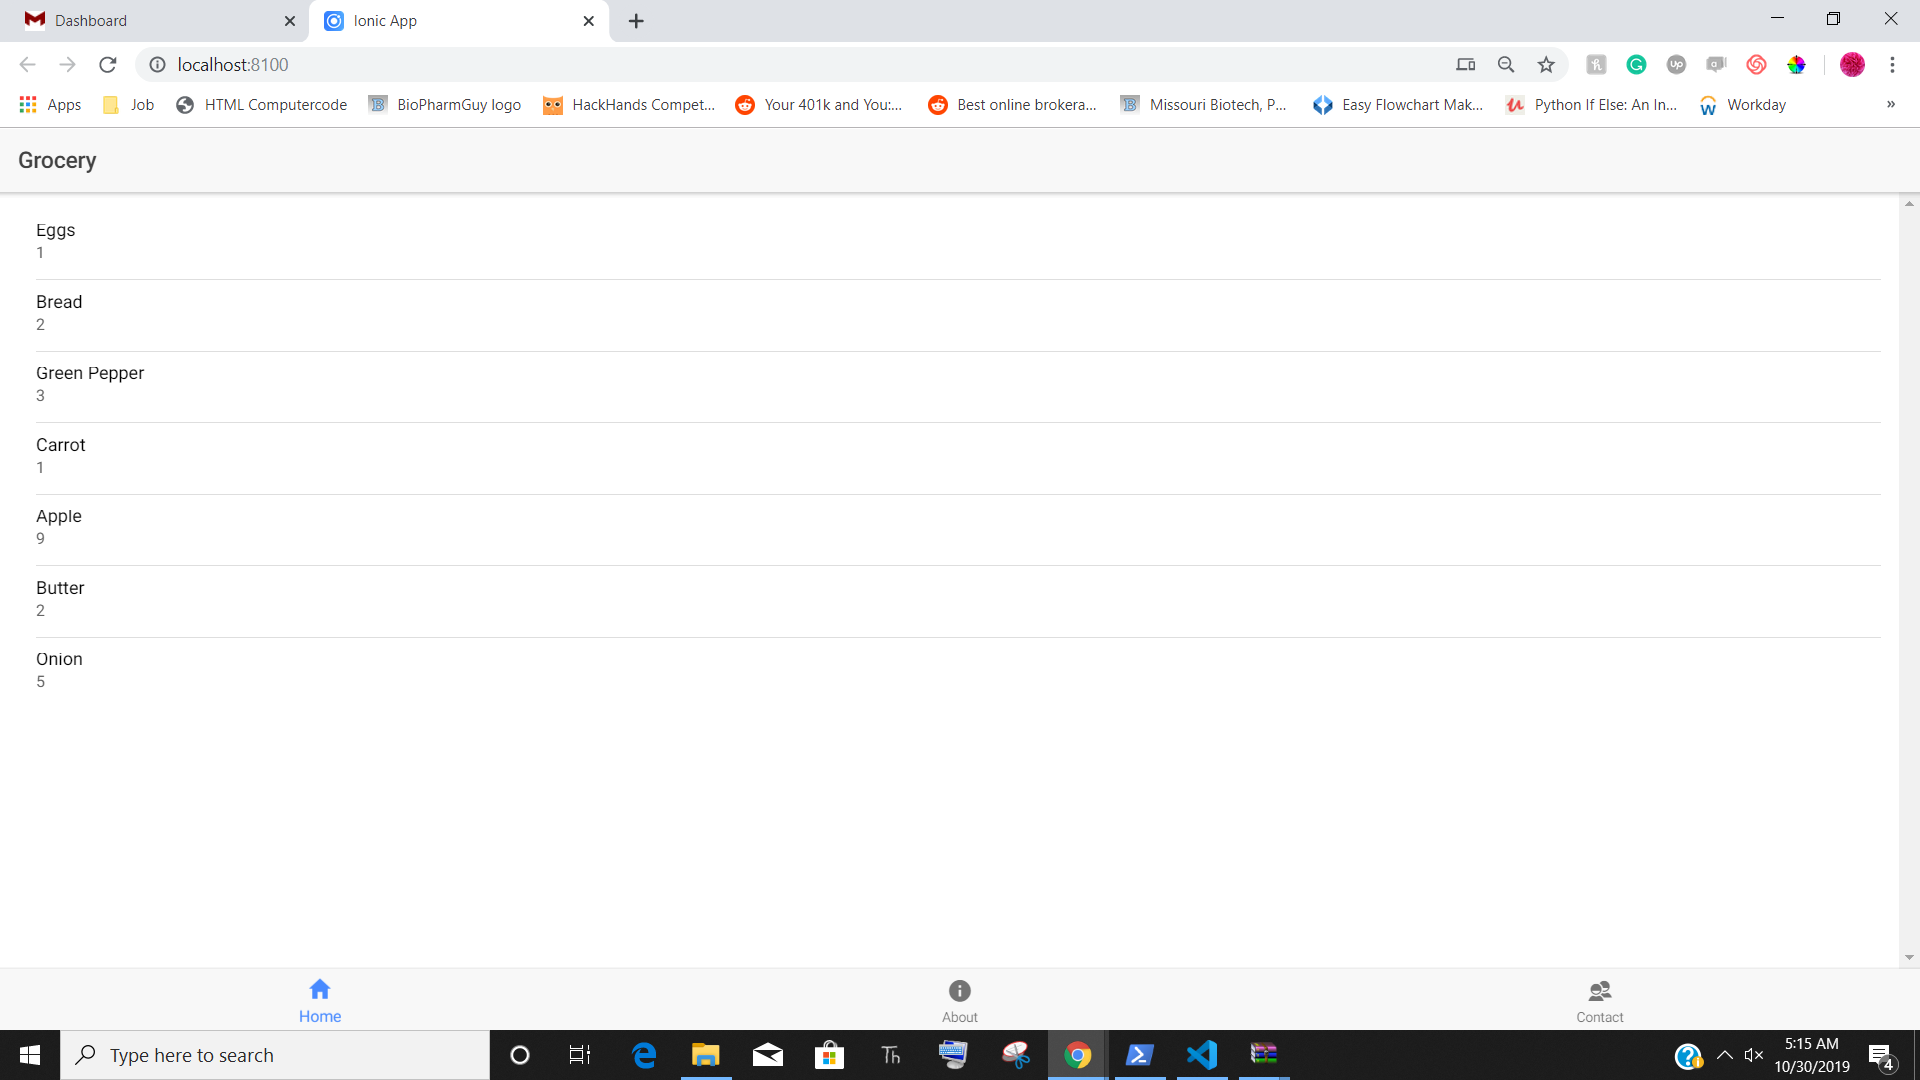
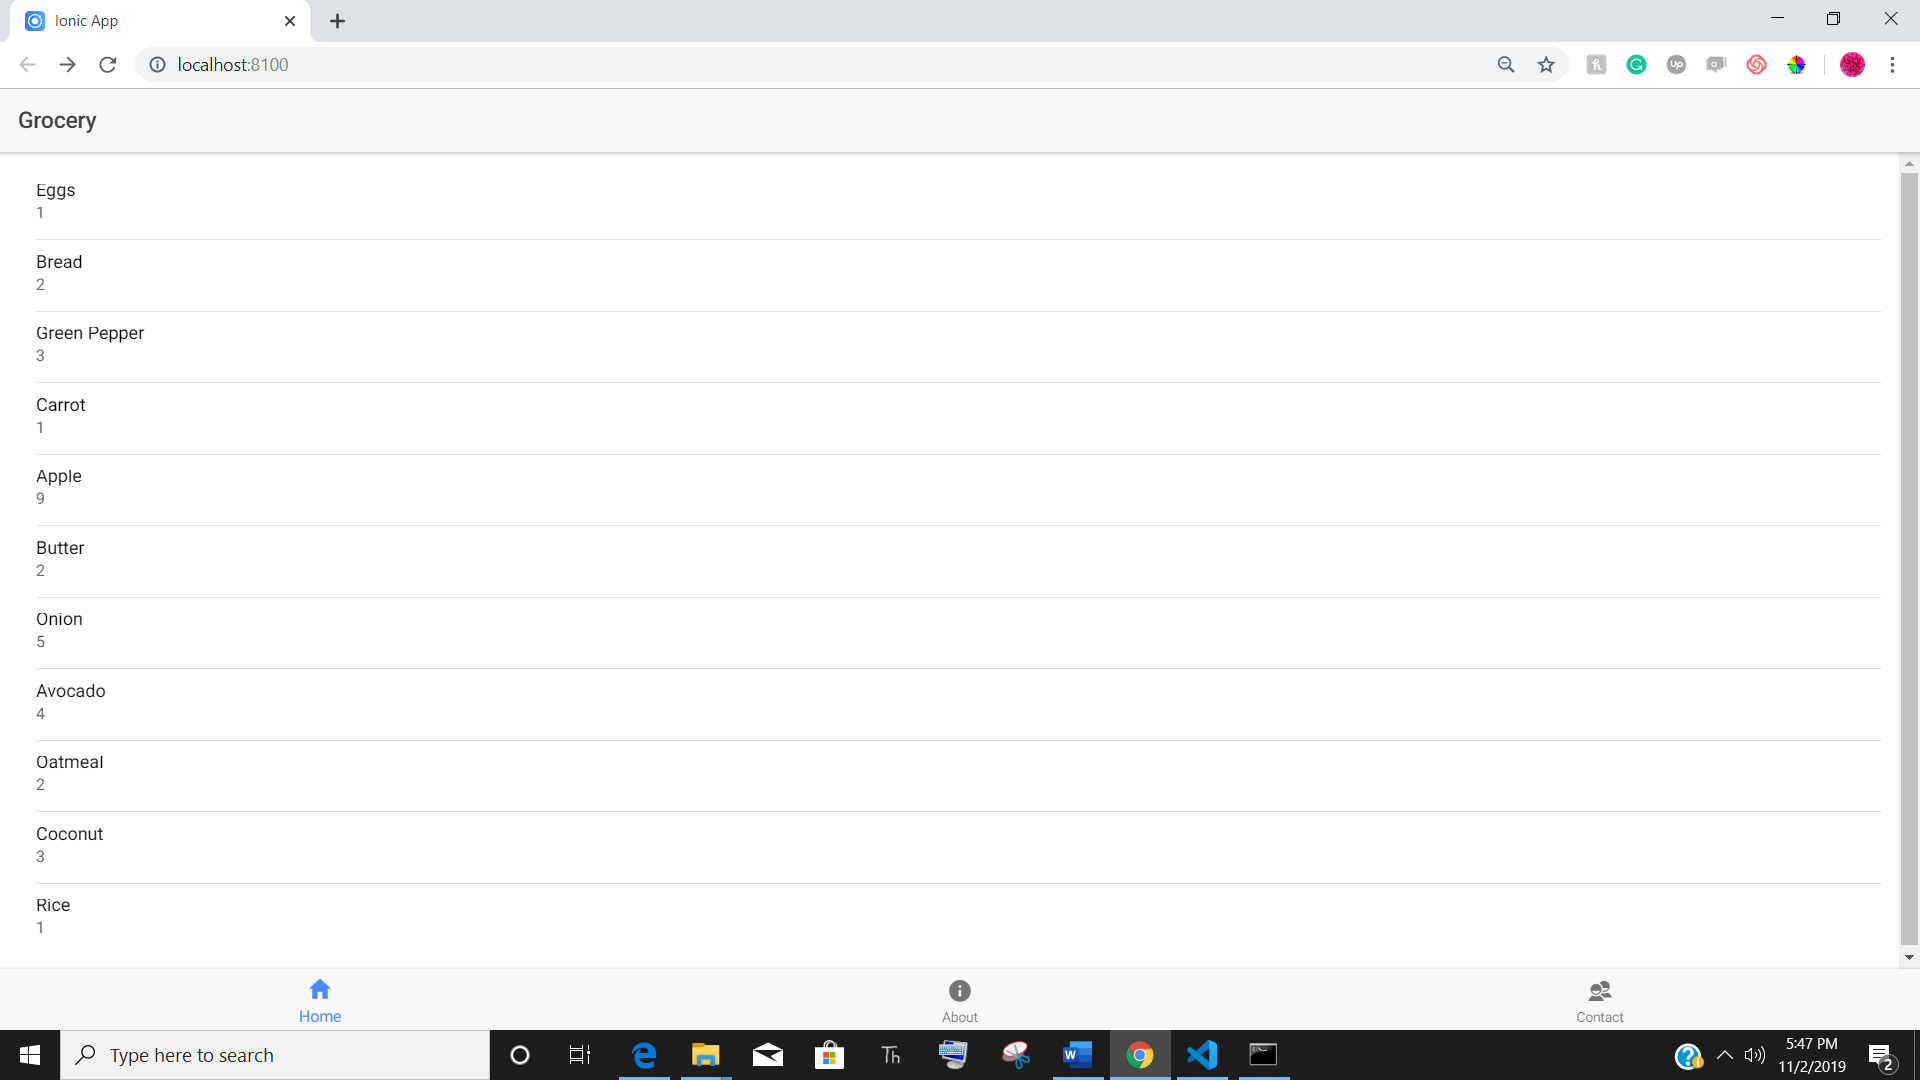
Updating Files

diff --git a/src/pages/home/home.html b/src/pages/home/home.html
@@ -125,6 +125,73 @@
                       </button>
                     </ion-item-options>
                   </ion-item-sliding> 
+                  <!--Food Item 8-->
+                <ion-item-sliding>
+                  <ion-item>
+                    <h2>Avocado</h2>
+                    <p>4</p>
+                  </ion-item>
+                  <ion-item-options>
+                   <button ion-button color="secondary" icon-start>
+                    <ion-icon name="cart"></ion-icon>
+                       Add to Cart
+                    </button>
+                    <button ion-button color="secondary" icon-start>
+                      <ion-icon name="trash"></ion-icon>
+                      Delete
+                    </button>
+                  </ion-item-options>
+                </ion-item-sliding> 
+                <!--Food Item 9-->
+                <ion-item-sliding>
+                  <ion-item>
+                    <h2>Oatmeal</h2>
+                    <p>2</p>
+                  </ion-item>
+                  <ion-item-options>
+                   <button ion-button color="secondary" icon-start>
+                    <ion-icon name="cart"></ion-icon>
+                       Add to Cart
+                    </button>
+                    <button ion-button color="secondary" icon-start>
+                      <ion-icon name="trash"></ion-icon>
+                      Delete
+                    </button>
+                  </ion-item-options>
+                </ion-item-sliding> 
+                <!--Food Item 10-->
+                <ion-item-sliding>
+                  <ion-item>
+                    <h2>Coconut</h2>
+                    <p>3</p>
+                  </ion-item>
+                  <ion-item-options>
+                   <button ion-button color="secondary" icon-start>
+                    <ion-icon name="cart"></ion-icon>
+                       Add to Cart
+                    </button>
+                    <button ion-button color="secondary" icon-start>
+                      <ion-icon name="trash"></ion-icon>
+                      Delete
+                    </button>
+                  </ion-item-options>
+                </ion-item-sliding> 
+                <!--Food Item 11-->
+                <ion-item-sliding>
+                  <ion-item>
+                    <h2>Rice</h2>
+                    <p>1</p>
+                  </ion-item>
+                  <ion-item-options>
+                   <button ion-button color="secondary" icon-start>
+                    <ion-icon name="cart"></ion-icon>
+                       Add to Cart
+                    </button>
+                    <button ion-button color="secondary" icon-start>
+                      <ion-icon name="trash"></ion-icon>
+                      Delete
+                    </button>
+                  </ion-item-options>
+                </ion-item-sliding> 
     </ion-list>      
   </ion-content>
-  
